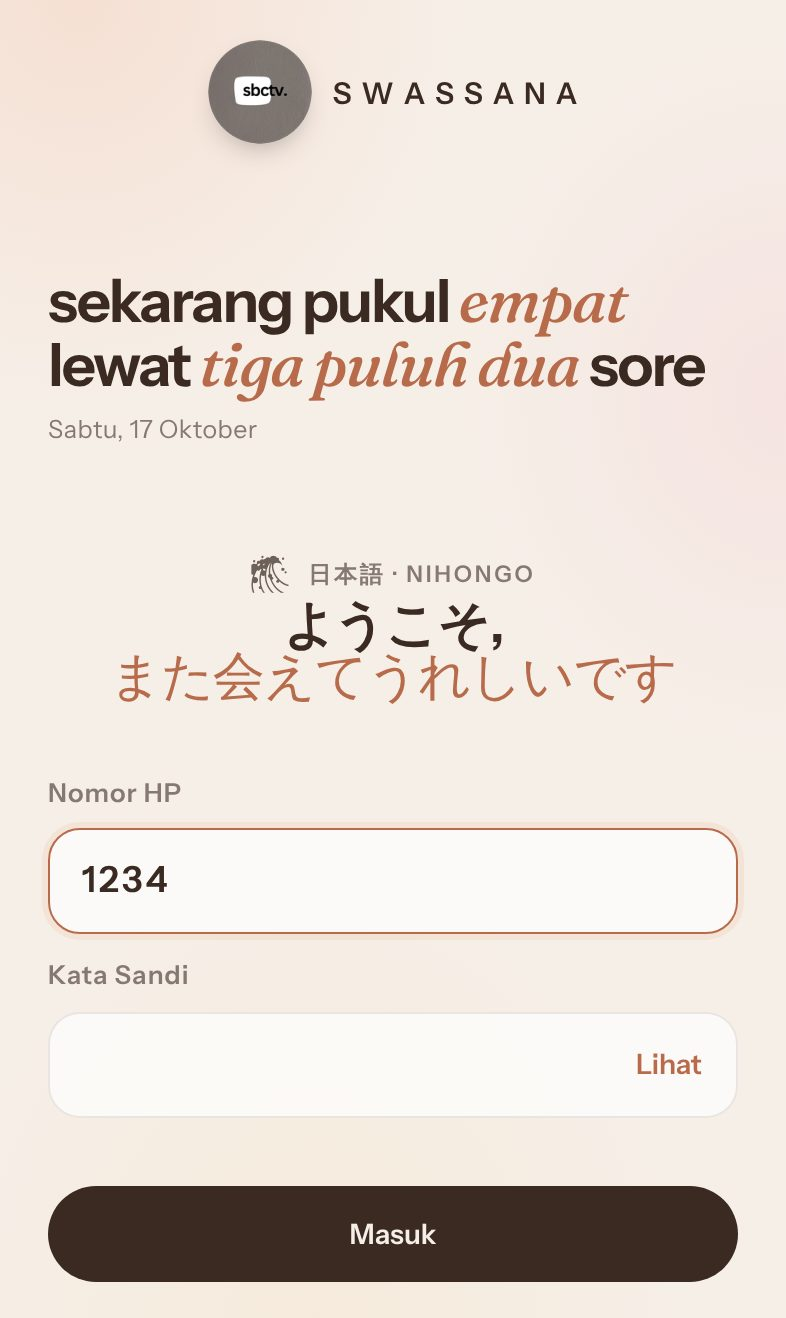
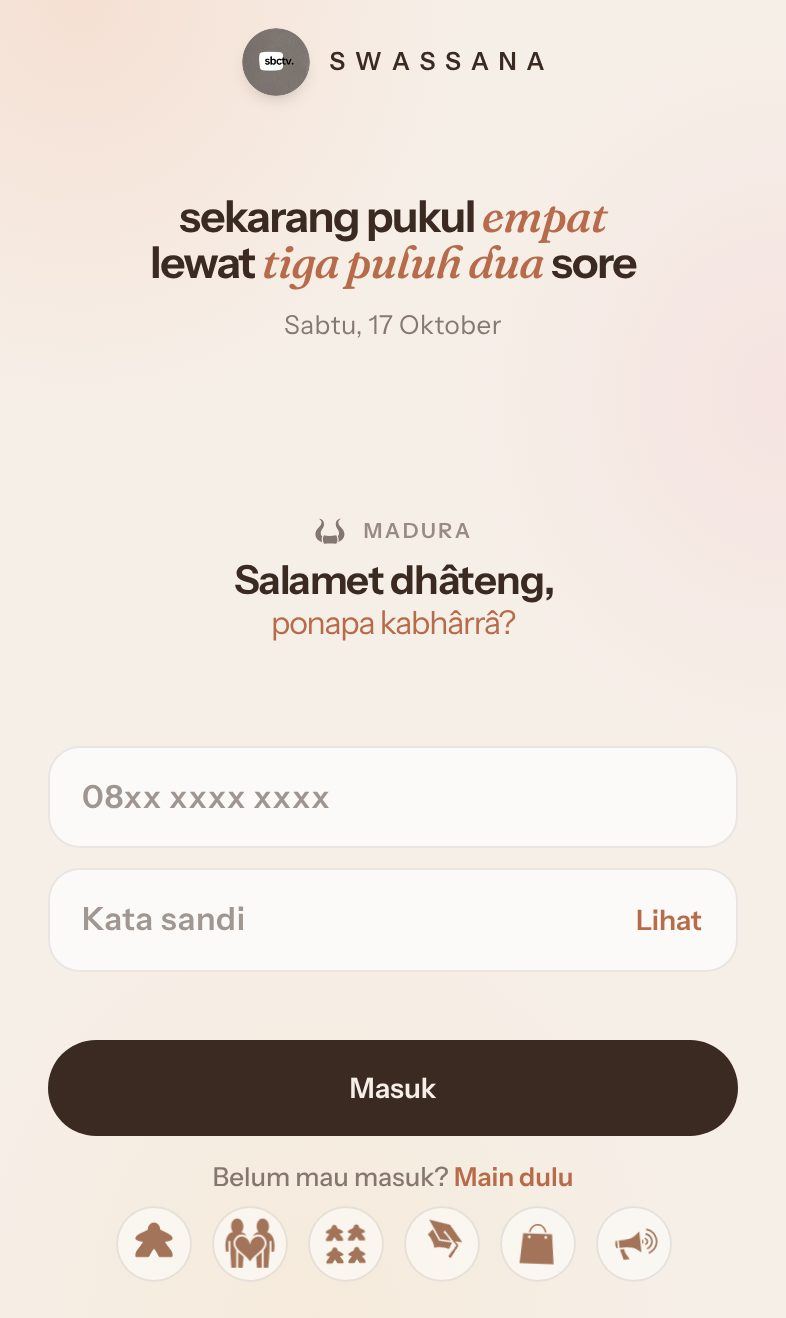
Login v2: one hero, one action
The clock is the single hero (smaller lens, centred Kalimat), the greeting
becomes a supporting line, the logo is lighter, field labels are hidden
visually (kept for screen readers) with placeholders, and the game banner
moves under the form as 'Belum mau masuk? Main dulu' with six round icon
buttons. The idle hint now swaps that line in place for 3 seconds instead
of covering the form.

Claude-Session: https://claude.ai/code/session_01NtCyvoDvjHFmUSFRxXKysP

diff --git a/style.css b/style.css
@@ -1082,40 +1082,72 @@ a.brand:not([data-logo]):hover::before { transform: rotate(-12deg) scale(1.06); 
 .gate h1.hello:not(.dict):lang(ja) .h2l { font-size: .84em; }
 @media (max-height: 700px) { .gate .gate-hello { padding-block: 0; } }
 
-/* Login: moving game banner under the logo (same items as the website marquee) */
-.gate .gate-mq { margin: -6px -24px 0; overflow: hidden; border-block: 1px solid var(--line); padding: 2px 0;
-  -webkit-mask: linear-gradient(90deg, transparent, #000 10%, #000 90%, transparent); mask: linear-gradient(90deg, transparent, #000 10%, #000 90%, transparent); }
-.gate .gate-mq .marquee-track { font-size: 12.5px; gap: 6px; padding-right: 6px; animation-duration: 30s; color: var(--muted); }
-.gate .gate-mq .mq-item { min-height: 38px; padding: 0 12px; gap: 8px; border-radius: 999px; }
-.gate .gate-mq .mq-item:active { background: color-mix(in oklab, var(--accent) 12%, transparent); color: var(--accent); transform: scale(.96); }
-.gate .gate-mq .mq-ic { width: 18px !important; height: 18px !important; color: var(--accent); }
-@media (max-height: 700px) { .gate .gate-mq { margin-top: -4px; } .gate .gate-mq .mq-item { min-height: 32px; } .gate .gate-mq .mq-ic { width: 16px !important; height: 16px !important; } }
-/* make room for the banner on shorter phones */
-@media (max-height: 920px) {
-  .gate .logo { padding-block: 0; min-height: 0; }
-  .gate .gate-hello { padding-block: 0; }
-  .gate .gate-mq .mq-item { min-height: 34px; }
-}
-@media (max-height: 820px) {
-  .gate-inner { gap: 10px; }
-  .gate input, .gate .big-btn { min-height: 46px; padding-top: 10px; padding-bottom: 10px; }
-  .gate label { gap: 5px; }
-}
-@media (max-height: 600px) { .gate-inner { gap: 7px; } .gate .gate-mq .mq-item { min-height: 30px; } .gate input, .gate .big-btn { min-height: 42px; } }
-@media (max-height: 600px) { .gate .logo .logo-mark { width: 40px; height: 40px; } .gate .logo { gap: 8px; } }
 
 /* Login: double tap the quote for the next one (no zoom on double tap) */
 .gate .gate-hello { touch-action: manipulation; cursor: pointer; -webkit-user-select: none; user-select: none; }
 
-/* Login: idle hint under the game banner, 3 seconds; quiet frosted glass, no loud colours */
-.gate-hint { position: fixed; left: 50%; z-index: 5; width: max-content; max-width: calc(100% - 64px); padding: 7px 14px 8px; border-radius: 14px;
-  background: color-mix(in oklab, var(--bg) 55%, transparent); color: var(--muted); border: 1px solid color-mix(in oklab, var(--text) 8%, transparent);
-  -webkit-backdrop-filter: blur(10px) saturate(1.2); backdrop-filter: blur(10px) saturate(1.2);
-  font: 500 12.5px/1.35 var(--sans); text-align: center; box-shadow: 0 8px 22px -14px rgba(58, 42, 34, .35);
-  opacity: 0; transform: translate(-50%, -4px); pointer-events: none; transition: opacity .6s ease, transform .6s ease; }
-.gate-hint.on { opacity: .92; transform: translate(-50%, 0); }
-.gate .gate-mq.nudge .mq-item { animation: mq-nudge .7s ease-in-out; }
-@keyframes mq-nudge { 50% { transform: translateY(-2px); color: var(--accent); } }
-@media (prefers-reduced-motion: reduce) { .gate-hint { transition: none; } .gate .gate-mq.nudge .mq-item { animation: none; } }
 /* the meaning / second line wraps inside the screen width instead of running past it */
 .gate h1.hello .h2l { display: block; }
+
+/* ===== Login v2: one hero (the clock), one action (Masuk), games as a quiet invitation below ===== */
+.vh { position: absolute !important; width: 1px; height: 1px; margin: -1px; padding: 0; overflow: hidden; clip: rect(0 0 0 0); white-space: nowrap; border: 0; }
+.gate .gate-inner { gap: 16px; }
+/* quiet header */
+.gate .logo { padding-block: 0; }
+.gate .logo .logo-mark { width: 34px; height: 34px; box-shadow: 0 4px 10px -6px rgba(0, 0, 0, .4); }
+.gate .logo .logo-word i { font-size: 12.5px; }
+/* clock: the one hero, calmer */
+.glens-dial { width: min(40vw, 152px); }
+.glens-time b { font-size: clamp(20px, 6.2vw, 26px); }
+.glens { gap: 8px; }
+.glens-cap { font-size: 13px; }
+.gate .gkal { text-align: center; }
+.gate .gkal p { font-size: clamp(24px, 7vw, 30px); text-wrap: balance; }
+.gate .gkal small { margin-top: 8px; font-size: 13px; }
+/* greeting: a supporting line */
+.gate .hello-tag { font-size: 10.5px; margin-bottom: 4px; opacity: .85; }
+.gate .hello-tag .crest { width: 16px; height: 16px; }
+.gate h1.hello { font-size: clamp(22px, 6.4vw, 26px); line-height: 1.15; min-height: 0; }
+.gate h1.hello .h2l { font-size: .8em; }
+.gate h1.hello.dict .h1l { font-size: 1.15em; }
+.gate h1.hello.dict .h2l { font-size: .6em; margin-top: 4px; }
+.gate h1.hello:not(.dict):lang(ja) .h2l { font-size: .72em; }
+/* form: no repeated labels, normal spacing */
+.gate form { gap: 10px; }
+.gate form label { gap: 0; }
+.gate form input { font-size: 16px; letter-spacing: .02em; min-height: 52px; padding-block: 12px; }
+.gate form input::placeholder { color: var(--muted); opacity: .8; letter-spacing: .02em; }
+.gate .big-btn { min-height: 52px; }
+/* games: "Belum mau masuk? Main dulu" + six round icon buttons */
+.gate-play { display: grid; justify-items: center; gap: 10px; margin-top: 2px; }
+.gate-play p { margin: 0; font: 500 13px/1 var(--sans); color: var(--muted); }
+.gate-play p span { color: var(--accent); font-weight: 600; }
+.gate-play p { white-space: nowrap; transition: opacity .22s ease, transform .22s ease; }
+.gate-play p.fade { opacity: 0; transform: translateY(3px); }
+.gate-play p.hint { color: var(--text); }
+.gate-play div { display: flex; gap: 10px; }
+.gate-play a { width: 42px; height: 42px; border-radius: 50%; display: grid; place-items: center; color: var(--accent);
+  background: color-mix(in oklab, var(--surface, #fff) 70%, transparent); border: 1px solid var(--line); transition: transform .25s cubic-bezier(.34, 1.56, .64, 1), background .2s; }
+.gate-play a:active { transform: scale(.88); background: color-mix(in oklab, var(--accent) 14%, transparent); }
+.gate-play svg { width: 19px; height: 19px; }
+.gate-play .nudge a { animation: play-nudge .7s ease-in-out both; }
+.gate-play .nudge a:nth-child(2) { animation-delay: .06s; } .gate-play .nudge a:nth-child(3) { animation-delay: .12s; }
+.gate-play .nudge a:nth-child(4) { animation-delay: .18s; } .gate-play .nudge a:nth-child(5) { animation-delay: .24s; } .gate-play .nudge a:nth-child(6) { animation-delay: .3s; }
+@keyframes play-nudge { 50% { transform: translateY(-4px); } }
+@media (prefers-reduced-motion: reduce) { .gate-play .nudge a { animation: none; } }
+/* shorter phones */
+@media (max-height: 820px) {
+  .gate .gate-inner { gap: 12px; }
+  .glens-dial { width: 136px; }
+  .gate form input, .gate .big-btn { min-height: 48px; }
+  .gate-play a { width: 38px; height: 38px; }
+  .gate-play { gap: 8px; }
+}
+@media (max-height: 700px) { .glens-dial { width: 118px; } .gate .gkal p { font-size: 22px; } .gate h1.hello { font-size: 20px; } }
+@media (max-height: 600px) {
+  .gate .gate-inner { gap: 8px; }
+  .glens-dial { width: 96px; } .glens-time b { font-size: 17px; } .glens-cap { font-size: 11.5px; }
+  .gate .gkal p { font-size: 20px; } .gate h1.hello { font-size: 18px; }
+  .gate form input, .gate .big-btn { min-height: 44px; }
+  .gate-play p { font-size: 12px; } .gate-play a { width: 34px; height: 34px; } .gate-play svg { width: 16px; height: 16px; }
+}

diff --git a/js/login.js b/js/login.js
@@ -39,12 +39,12 @@ function render() {
         <p class="muted">Masuk untuk melanjutkan ke Swassana.</p>
       </div>
       <form id="gateForm" novalidate>
-        <label>Nomor HP
+        <label><span class="vh">Nomor HP</span>
           <input id="gateId" name="id" type="tel" inputmode="tel" autocomplete="tel" placeholder="08xx xxxx xxxx" required>
         </label>
-        <label>Kata Sandi
+        <label><span class="vh">Kata sandi</span>
           <span class="pw">
-            <input id="gatePw" name="pw" type="password" inputmode="numeric" autocomplete="current-password" required>
+            <input id="gatePw" name="pw" type="password" inputmode="numeric" autocomplete="current-password" placeholder="Kata sandi" required>
             <button type="button" id="gateShow" aria-label="Tampilkan kata sandi">Lihat</button>
           </span>
         </label>
@@ -52,9 +52,13 @@ function render() {
         <button class="pill pill-solid big-btn" type="submit" id="gateBtn">Masuk</button>
       </form>
     </div>`;
-  // the website's moving game banner, under the logo: each item opens its mini game (no login needed)
-  const track = document.querySelector('.marquee .marquee-track');
-  if (track) gate.querySelector('.logo').insertAdjacentHTML('afterend', `<nav class="gate-mq" aria-label="Main tanpa masuk"><div class="marquee-track">${track.innerHTML}</div></nav>`);
+  // under the form: the six mini games as small icon buttons (playable without logging in);
+  // icons and links come from the website's game banner
+  const games = [...document.querySelectorAll('.marquee .mq-item:not([aria-hidden])')];
+  if (games.length) gate.querySelector('#gateForm').insertAdjacentHTML('afterend', `<nav class="gate-play" aria-label="Main tanpa masuk">
+      <p>Belum mau masuk? <span>Main dulu</span></p>
+      <div>${games.map((a) => `<a href="${a.getAttribute('href')}" aria-label="${a.textContent.trim()}: ${(a.title || '').replace('Main: ', '')}" title="${a.textContent.trim()}">${a.querySelector('svg').outerHTML}</a>`).join('')}</div>
+    </nav>`);
   document.body.appendChild(gate);
   startClock(gate);
   startHello(gate);
@@ -298,33 +302,38 @@ function startHello(gate) {
   startIdleHint(gate, reduce);
 }
 
-// After every 10 minutes without a touch or key press, a cheeky hint points at the game banner for 3 seconds.
+// After every 10 minutes without a touch or key press, the line above the game buttons turns into a cheeky
+// hint for 3 seconds (crossfade in place, nothing covers the form) and the buttons give a little hop.
 const HINTS = [
-  'Sepuluh menit bengong? Jempolmu kangen main. Coba game di atas ☝',
-  'Psst… kamera juga butuh pemanasan. Main dulu di atas ☝',
-  'Daripada nunggu, adu cepat sama pasanganmu di Love Sync ☝',
-  'Nggak ada yang lihat kok. Satu ronde aja ☝',
-  'Pose terbaik muncul setelah ketawa. Main dulu ☝',
+  'Sepuluh menit bengong? Main dulu 👇',
+  'Kamera juga butuh pemanasan 👇',
+  'Adu cepat di Love Sync, yuk 👇',
+  'Nggak ada yang lihat. Satu ronde aja 👇',
+  'Pose terbaik muncul setelah ketawa 👇',
 ];
 function startIdleHint(gate, reduce) {
   const IDLE = 10 * 60 * 1000, SHOW = 3000;
-  const mq = gate.querySelector('.gate-mq');
-  if (!mq) return;
-  const hint = document.createElement('div');
-  hint.className = 'gate-hint'; hint.setAttribute('role', 'status');
-  gate.appendChild(hint);
-  let t, h = 0, hideT;
+  const line = gate.querySelector('.gate-play p'), row = gate.querySelector('.gate-play div');
+  if (!line || !row) return;
+  const normal = line.innerHTML;
+  line.setAttribute('aria-live', 'polite');
+  let t, h = 0, backT, swapT;
+  const swap = (html) => {
+    clearTimeout(swapT);
+    line.classList.add('fade');
+    swapT = setTimeout(() => { line.innerHTML = html; line.classList.remove('fade'); }, reduce ? 0 : 220);
+  };
+  const restore = () => { clearTimeout(backT); if (line.innerHTML !== normal || line.classList.contains('hint')) { line.classList.remove('hint'); swap(normal); } };
   const arm = () => { clearTimeout(t); t = setTimeout(fire, IDLE); };
   const fire = () => {
     if (!gate.isConnected) return;
-    hint.textContent = HINTS[h++ % HINTS.length];
-    hint.style.top = `${mq.getBoundingClientRect().bottom + 10}px`;
-    hint.classList.remove('on'); void hint.offsetWidth; hint.classList.add('on');
-    if (!reduce) { mq.classList.remove('nudge'); void mq.offsetWidth; mq.classList.add('nudge'); }
-    clearTimeout(hideT); hideT = setTimeout(() => hint.classList.remove('on'), SHOW);
+    line.classList.add('hint');
+    swap(HINTS[h++ % HINTS.length]);
+    if (!reduce) { row.classList.remove('nudge'); void row.offsetWidth; row.classList.add('nudge'); }
+    clearTimeout(backT); backT = setTimeout(restore, SHOW);
     arm(); // and again after the next 10 idle minutes
   };
-  ['pointerdown', 'keydown', 'input'].forEach((ev) => gate.addEventListener(ev, () => { hint.classList.remove('on'); arm(); }, { passive: true }));
+  ['pointerdown', 'keydown', 'input'].forEach((ev) => gate.addEventListener(ev, () => { restore(); arm(); }, { passive: true }));
   arm();
 }
 

diff --git a/preview.html b/preview.html
@@ -140,7 +140,7 @@
     <div class="note"><h2>Pasang di iPhone</h2><p>Buka situs di <b>Safari</b>, ketuk <b>Bagikan</b>, lalu <b>Tambah ke Layar Utama</b>. Swassana terbuka layar penuh seperti aplikasi.</p></div>
     <div class="note"><h2>Pasang di Android</h2><p>Buka di <b>Chrome</b>, ketuk <b>⋮</b>, lalu <b>Instal aplikasi</b>. Tekan lama ikonnya untuk shortcut Booking Surabaya &amp; Malang.</p></div>
     <div class="note"><h2>Layar masuk</h2><p>Jam <b>Kalimat</b> dan <b>Lensa</b> bergantian tiap 5 menit, sapaan 11 bahasa berganti tiap 30 detik. <b>Ketuk dua kali</b> sapaannya untuk lanjut.</p></div>
-    <div class="note"><h2>Tanpa masuk</h2><p>Ketuk salah satu sesi di <b>banner game</b> di bawah logo untuk langsung main, tanpa perlu masuk.</p></div>
+    <div class="note"><h2>Tanpa masuk</h2><p>Di bawah tombol Masuk ada <b>enam ikon game</b>: ketuk salah satu untuk langsung main, tanpa perlu masuk.</p></div>
     <div class="note"><h2>Setelah masuk</h2><p>Beranda gaya PS5: geser ikon, ketuk lagi untuk buka. <b>Booking</b> selalu ada di bawah, <b>Keluar</b> di pojok atas.</p></div>
     <div class="note"><h2>Di komputer</h2><p>Situs utama tetap tampil sebagai website biasa. Halaman ini menampilkan versi aplikasinya di dalam bingkai ponsel.</p></div>
   </section>
